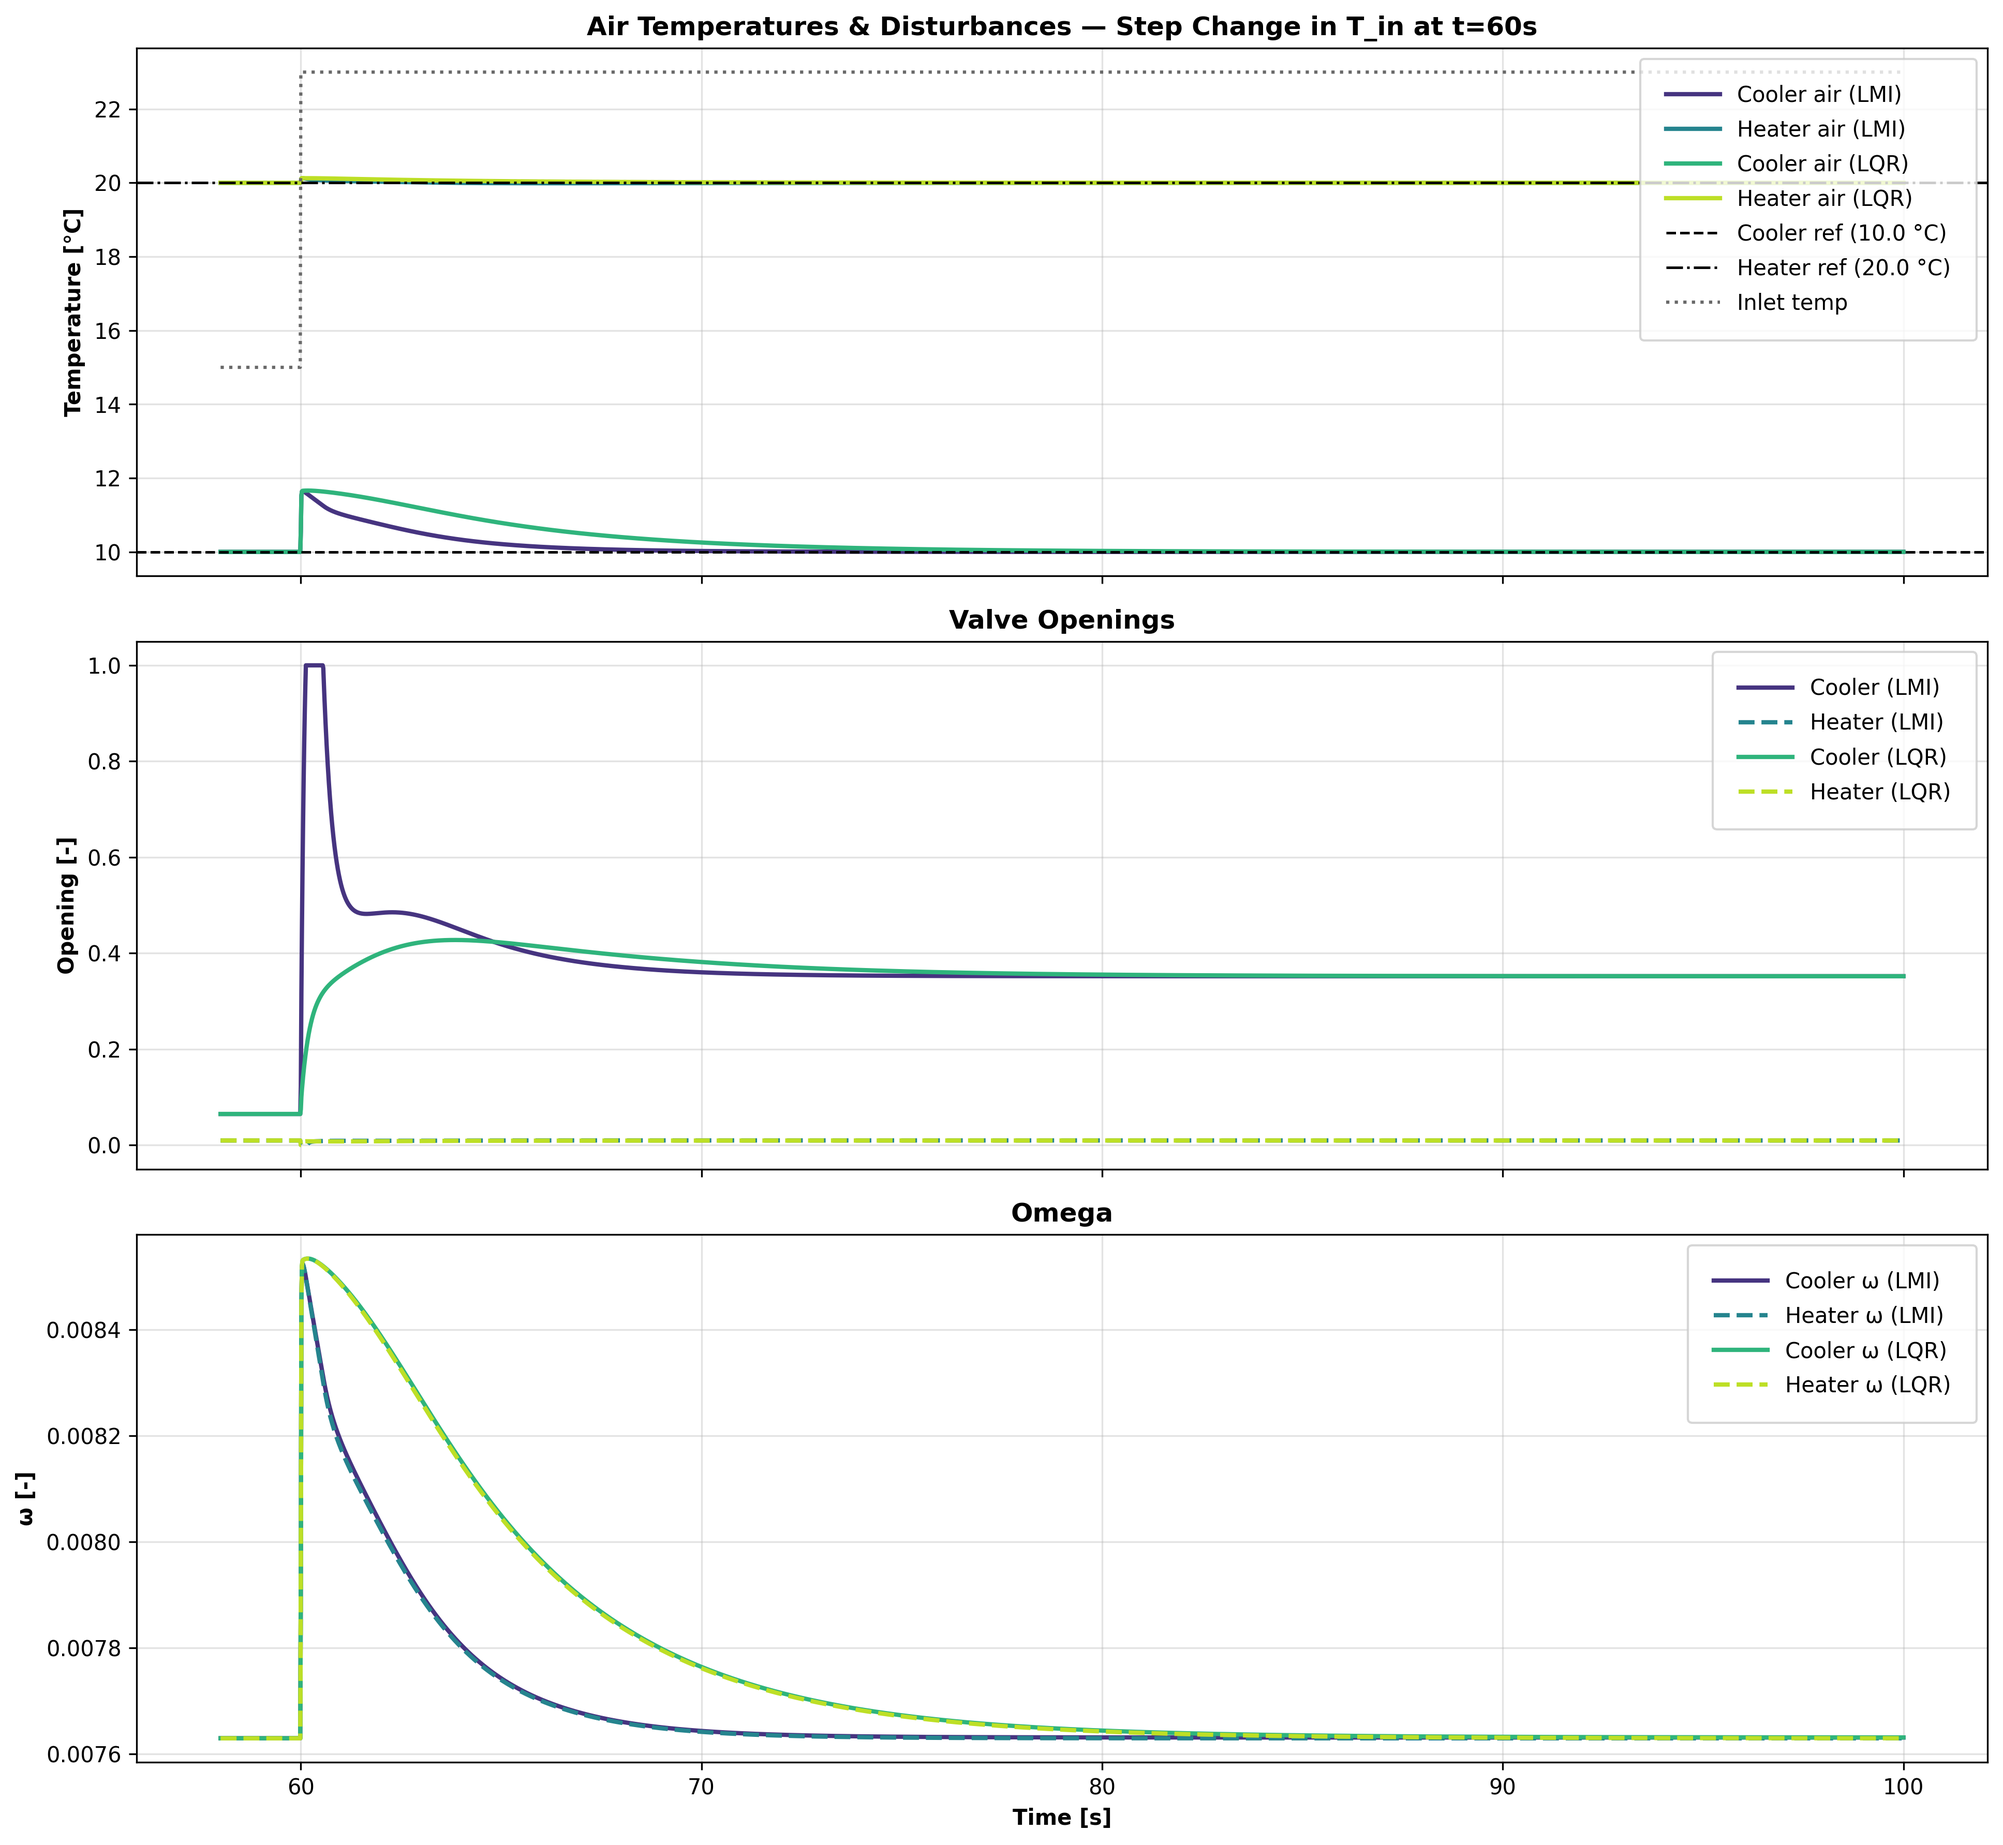
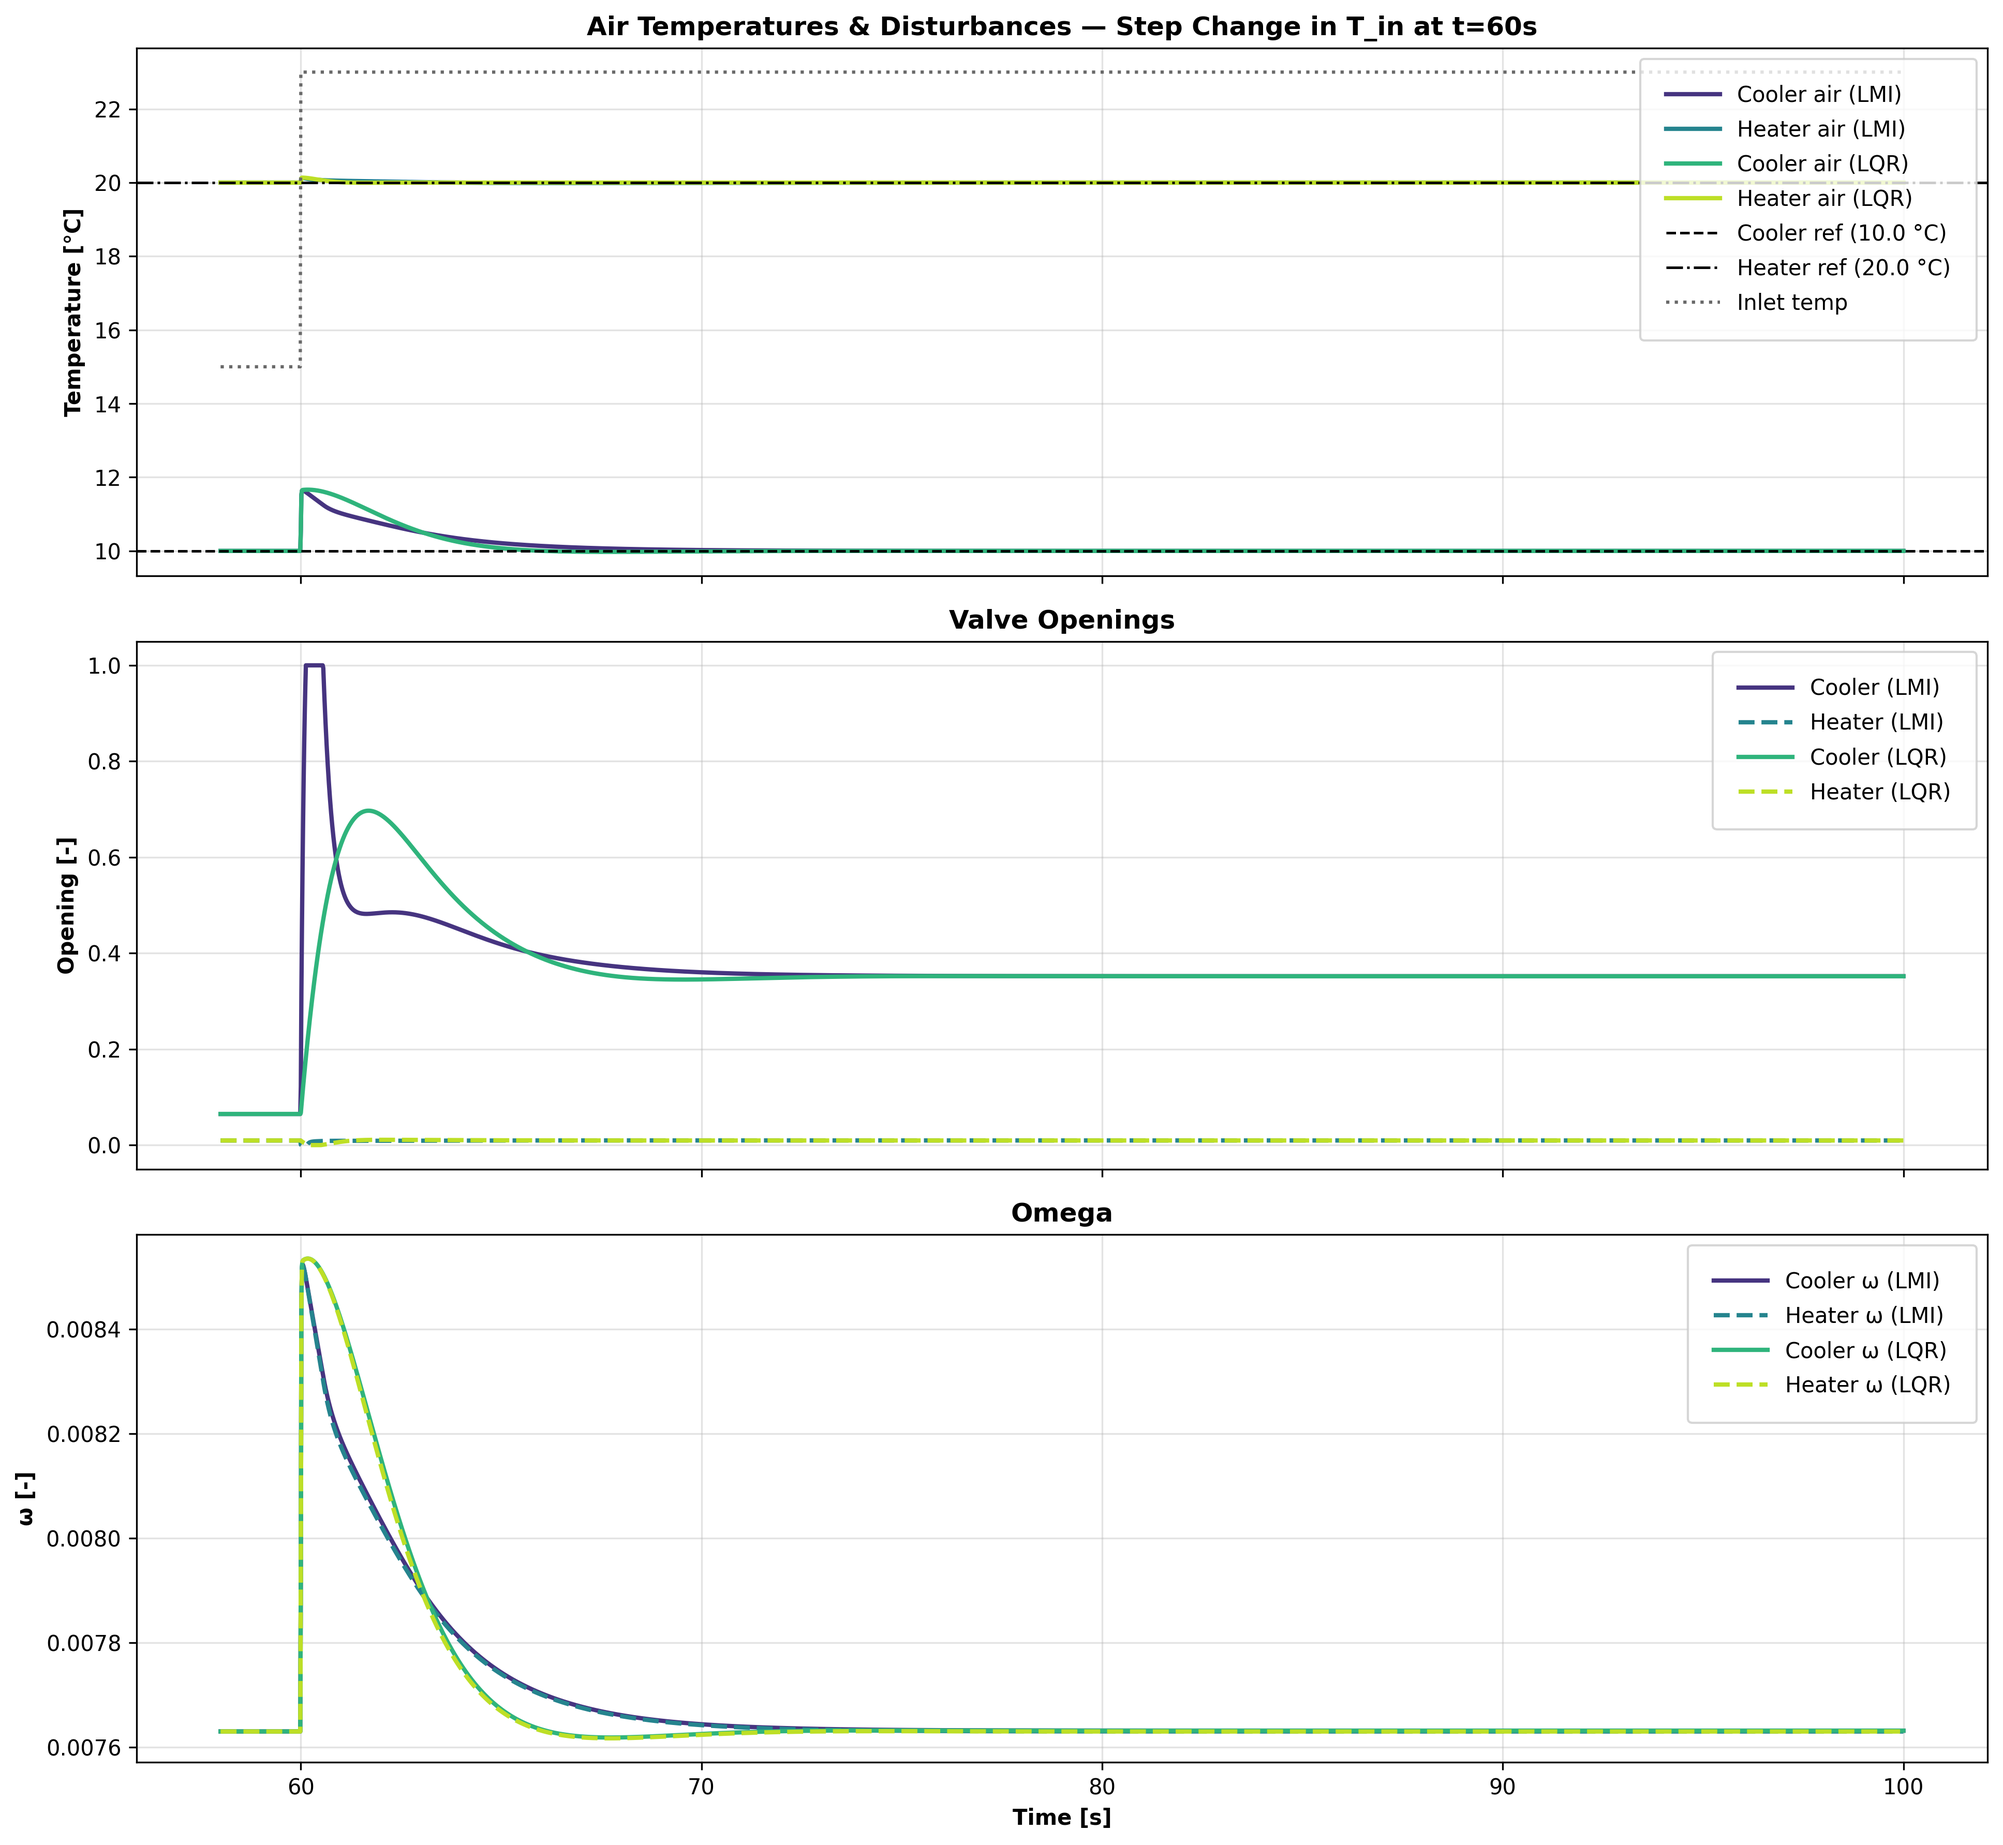
Fixed where sim.py is and other small things

diff --git a/src/hvac/scripts/sim.py b/src/hvac/scripts/sim.py
@@ -55,7 +55,7 @@ COMPARE_CONTROLLERS       = True   # True: overlay both in one 2×1 layout
 USE_DISTURBANCE_REJECTION = False   # Used when COMPARE_CONTROLLERS = False
 USE_BRYSON                = True    # Only used for LQR (not compatible with LMI design)
 CASE_DISTURBANCE          = 5       # 0: All constant, 1: Temp, 2: RH, 3: Flow, 4: All combined, 5: Step change in T_in
-PLOT_OMEGA                = True   # True: add a third subplot with mean omega per controller
+PLOT_OMEGA                = True   # True: add a third subplot with omega per controller
 
 # ── Dimensions ────────────────────────────────────────────────────────────────
 K = hvac._lin_components[0].K
@@ -91,23 +91,6 @@ t_eval  = np.linspace(t_start, t_end, points_per_day)
 T1_ref = 10.0 + 273.15
 T2_ref = 20.0 + 273.15
 r      = np.array([T1_ref, T2_ref])
-
-# ── Initial conditions ────────────────────────────────────────────────────────
-if CASE_DISTURBANCE == 5:
-    # Start at reference, then step T_in at t=60s
-    x0 = np.concatenate([
-        np.full(K, 15 + 273.15),
-        np.full(K, 15 + 273.15),
-        np.full(K, 9.9 + 273.15),
-        np.full(K, 9.9 + 273.15),
-    ])
-else:
-    x0 = np.concatenate([
-        np.full(K, 23 + 273.15),
-        np.full(K, 23 + 273.15),
-        np.full(K, 9.9 + 273.15),
-        np.full(K, 9.9 + 273.15),
-    ])
 
 # ── Disturbance function ──────────────────────────────────────────────────────
 def d(t):
@@ -159,6 +142,15 @@ def d(t):
                 / (params_cooler["num_segments"] * params_cooler["num_pipes"])
             )
     return np.array([T_in, rh_in, volume_flow_wet_air])
+
+# ── Initial conditions ────────────────────────────────────────────────────────
+_T_in_0 = d(t_start)[0]
+x0 = np.concatenate([
+    np.full(K, _T_in_0),
+    np.full(K, _T_in_0),
+    np.full(K, 9.9 + 273.15),
+    np.full(K, 9.9 + 273.15),
+])
 
 # ── Build controller and simulate ─────────────────────────────────────────────
 def build_and_simulate(use_disturbance_rejection):
